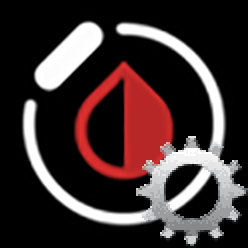
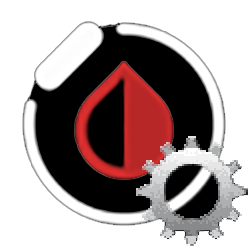
change High, low BG Color

diff --git a/app-widget/index.r.layout.js b/app-widget/index.r.layout.js
@@ -15,8 +15,8 @@ export const Colors = {
   defaultTransparent:0x059AF7,
   white:0xffffff,
   black:0x000000,
-  bgHigh:0xffa0a0,
-  bgLow:0x8bbbff,
+  bgHigh:0xfdef03,
+  bgLow:0xfd030f,
   accent:0xffbeff37,
 };
 

diff --git a/app-widget/index.s.layout.js b/app-widget/index.s.layout.js
@@ -15,8 +15,8 @@ export const Colors = {
   defaultTransparent:0x059AF7,
   white:0xffffff,
   black:0x000000,
-  bgHigh:0xffa0a0,
-  bgLow:0x8bbbff,
+  bgHigh:0xfdef03,
+  bgLow:0xfd030f,
   accent:0xffbeff37,
 };
 

diff --git a/page/index.r.layout.js b/page/index.r.layout.js
@@ -12,8 +12,8 @@ export const Colors = {
   defaultTransparent:0x059AF7,
   white:0xffffff,
   black:0x000000,
-  bgHigh:0xffa0a0,
-  bgLow:0x8bbbff,
+  bgHigh:0xfdef03,
+  bgLow:0xfd030f,
   accent:0xffbeff37,
 };
 

diff --git a/page/index.s.layout.js b/page/index.s.layout.js
@@ -12,8 +12,8 @@ export const Colors = {
   defaultTransparent:0x059AF7,
   white:0xffffff,
   black:0x000000,
-  bgHigh:0xffa0a0,
-  bgLow:0x8bbbff,
+  bgHigh:0xfdef03,
+  bgLow:0xfd030f,
   accent:0xffbeff37,
 };
 

diff --git a/secondary-widget/index.r.layout.js b/secondary-widget/index.r.layout.js
@@ -12,8 +12,8 @@ export const Colors = {
   defaultTransparent:0x059AF7,
   white:0xffffff,
   black:0x000000,
-  bgHigh:0xffa0a0,
-  bgLow:0x8bbbff,
+  bgHigh:0xfdef03,
+  bgLow:0xfd030f,
   accent:0xffbeff37,
 };
 

diff --git a/secondary-widget/index.s.layout.js b/secondary-widget/index.s.layout.js
@@ -13,8 +13,8 @@ export const Colors = {
   defaultTransparent:0x059AF7,
   white:0xffffff,
   black:0x000000,
-  bgHigh:0xffa0a0,
-  bgLow:0x8bbbff,
+  bgHigh:0xfdef03,
+  bgLow:0xfd030f,
   accent:0xffbeff37,
 };
 
